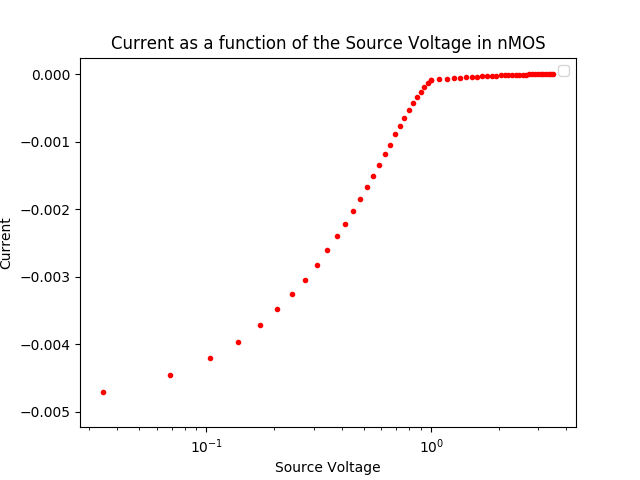
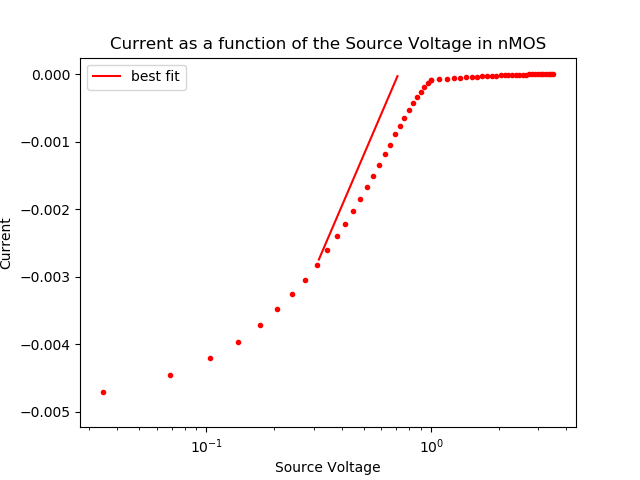
weird lines?

diff --git a/lab 5/exp2/pMossemilog.py b/lab 5/exp2/pMossemilog.py
@@ -1,12 +1,12 @@
 import sys
 sys.path.append('..')
 from linefit import linefit
+#from ekvfit import ekvfit
 import numpy as np
 import math
 import matplotlib.pyplot as plt
 from scipy.optimize import curve_fit
 from scipy import stats
-
 nIout = open('nmosexp2/Iout.txt', 'r').read().split()
 nVin = open('pmosexp2/Vin.txt', 'r').read().split()
 pIout = open('pmosexp2/Iout.txt', 'r').read().split()
@@ -16,20 +16,23 @@ nV=[]
 pI=[]
 pV=[]
 i = 0
-print (pIout)
-print(pVin)
-for x in nIout:
-    #nI.append(float(x)*-1)
+
+for x in pIout:
+    #nI.append(float(x))
     #nV.append(float(nVin[i]))
-    pI.append(float(pIout[i])*-1)
+    pI.append(float(x)*-1)
     pV.append(float(pVin[i]))
     i+=1
-print (pV)
-print (pI)
-title = "Current as a function of the Source Voltage in pMOS"
+title = "Current as a function of the Source Voltage in nMOS"
 yLabel = "Current"
 xLabel = "Source Voltage"
+
+[first, last, mmax, bmax, Nmax]=linefit(np.array(pV),np.array(pI))
+x = np.logspace(.25,.55,2)
+y = mmax*x+bmax
+
 Data1 = plt.semilogx(pV, pI, 'ro', markersize=3)
+Data2=plt.semilogx(x, y, '-r', label='best fit')
 plt.xlabel(xLabel)
 plt.ylabel(yLabel)
 plt.title(title)

diff --git a/lab 5/exp2/nMossemilog.py b/lab 5/exp2/nMossemilog.py
@@ -27,8 +27,12 @@ title = "Current as a function of the Source Voltage in nMOS"
 yLabel = "Current"
 xLabel = "Source Voltage"
 
-[ss,s,sss,kk,k]=linefit(np.array(nV),np.array(nI))
+[first, last, mmax, bmax, Nmax]=linefit(np.array(nV),np.array(nI))
+x = np.logspace(-.5,-.15,2)
+y = mmax*x+bmax
+
 Data1 = plt.semilogx(nV, nI, 'ro', markersize=3)
+Data2=plt.semilogx(x, y, '-r', label='best fit')
 plt.xlabel(xLabel)
 plt.ylabel(yLabel)
 plt.title(title)
